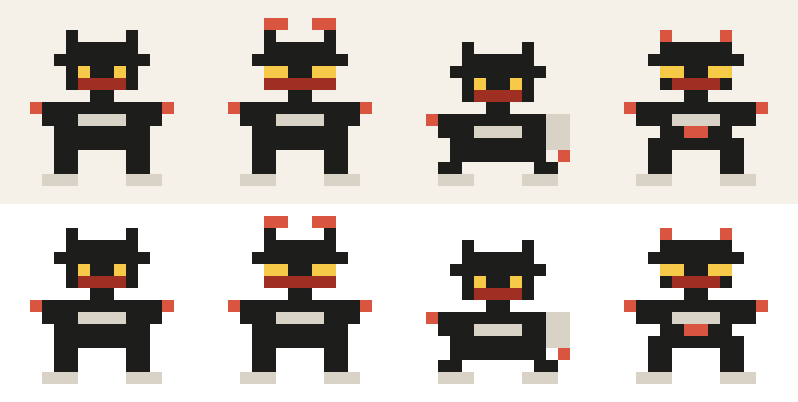
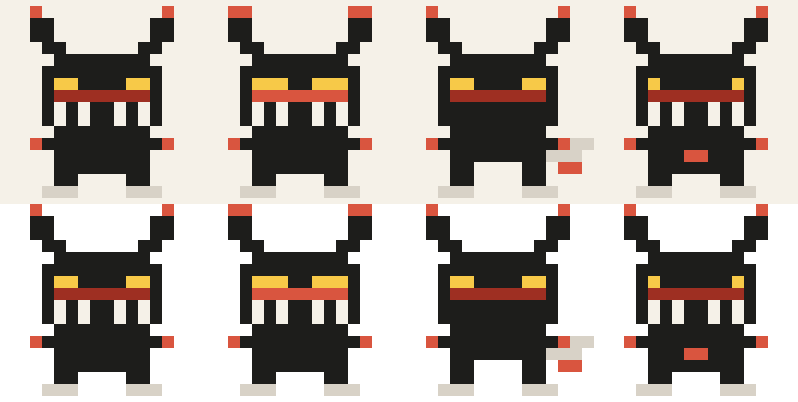
feat: bring the night into the app, and make the guardian look the part
The site had a legend and the app had a friendly little figure. Both ends
are the same character, so now both ends are the same story.

The four sprites are redrawn on the same 16x16 grid: horns that sweep
past the head, two rows of fangs in a crimson mouth, narrower eyes, and
a crimson rim that lets the whole silhouette read against ink. The
generator refuses to write a row that is not sixteen cells, because a
short row is a sprite with a bite taken out of it and it fails silently.

The popup and the Home card are now the app's one dark surface: an ink
plate with a deep crimson rim and a hard crimson shadow - the same plate
the site hangs the poster on. `framed` grew a rim colour for it, which
is additive: every existing caller keeps ink exactly as before. Restored
stays on the calm soft-forest card, because a watch that is whole again
has nothing left to be loud about.

No copy changed and no claim grew: the words still say what is true, and
only the picture is allowed to be frightening.

Full suite green. The sprite rules now also enforce that the teeth are
attached, that the rim reads on ink (1.3:1) and that the eyes read on ink
(4.5:1) - the eyes are the one thing allowed to be brighter than the rim.

diff --git a/web/lib/sprites.ts b/web/lib/sprites.ts
@@ -286,41 +286,43 @@ export const sprites = {
   guardian_idle: {
     size: 16,
     layers: [
-      { colour: '#1D1D1B', cells: [[5, 2, 1, 1], [10, 2, 1, 1], [5, 3, 6, 1], [4, 4, 8, 1], [5, 5, 1, 1], [7, 5, 2, 1], [10, 5, 1, 1], [5, 6, 1, 1], [10, 6, 1, 1], [7, 7, 2, 1], [3, 8, 10, 1], [3, 9, 3, 1], [10, 9, 3, 1], [4, 10, 8, 1], [4, 11, 8, 1], [4, 12, 2, 1], [10, 12, 2, 1], [4, 13, 2, 1], [10, 13, 2, 1]] },
-      { colour: '#F7C948', cells: [[6, 5, 1, 1], [9, 5, 1, 1]] },
-      { colour: '#9E2F22', cells: [[6, 6, 4, 1]] },
-      { colour: '#D9553F', cells: [[2, 8, 1, 1], [13, 8, 1, 1]] },
-      { colour: '#D8D2C7', cells: [[6, 9, 4, 1], [3, 14, 3, 1], [10, 14, 3, 1]] }
+      { colour: '#D9553F', cells: [[2, 0, 1, 1], [13, 0, 1, 1], [2, 11, 1, 1], [13, 11, 1, 1]] },
+      { colour: '#1D1D1B', cells: [[2, 1, 2, 1], [12, 1, 2, 1], [2, 2, 2, 1], [12, 2, 2, 1], [3, 3, 2, 1], [11, 3, 2, 1], [4, 4, 8, 1], [3, 5, 10, 1], [3, 6, 1, 1], [6, 6, 4, 1], [12, 6, 1, 1], [3, 7, 1, 1], [12, 7, 1, 1], [3, 8, 1, 1], [5, 8, 1, 1], [7, 8, 2, 1], [10, 8, 1, 1], [12, 8, 1, 1], [3, 9, 1, 1], [5, 9, 1, 1], [7, 9, 2, 1], [10, 9, 1, 1], [12, 9, 1, 1], [4, 10, 8, 1], [3, 11, 10, 1], [4, 12, 8, 1], [4, 13, 8, 1], [4, 14, 2, 1], [10, 14, 2, 1]] },
+      { colour: '#F7C948', cells: [[4, 6, 2, 1], [10, 6, 2, 1]] },
+      { colour: '#9E2F22', cells: [[4, 7, 8, 1]] },
+      { colour: '#F5F1E8', cells: [[4, 8, 1, 1], [6, 8, 1, 1], [9, 8, 1, 1], [11, 8, 1, 1], [4, 9, 1, 1], [6, 9, 1, 1], [9, 9, 1, 1], [11, 9, 1, 1]] },
+      { colour: '#D8D2C7', cells: [[3, 15, 3, 1], [10, 15, 3, 1]] }
     ]
   },
   guardian_alert: {
     size: 16,
     layers: [
-      { colour: '#D9553F', cells: [[5, 1, 2, 1], [9, 1, 2, 1], [2, 8, 1, 1], [13, 8, 1, 1]] },
-      { colour: '#1D1D1B', cells: [[5, 2, 1, 1], [10, 2, 1, 1], [5, 3, 6, 1], [4, 4, 8, 1], [7, 5, 2, 1], [7, 7, 2, 1], [3, 8, 10, 1], [3, 9, 3, 1], [10, 9, 3, 1], [4, 10, 8, 1], [4, 11, 8, 1], [4, 12, 2, 1], [10, 12, 2, 1], [4, 13, 2, 1], [10, 13, 2, 1]] },
-      { colour: '#F7C948', cells: [[5, 5, 2, 1], [9, 5, 2, 1]] },
-      { colour: '#9E2F22', cells: [[5, 6, 6, 1]] },
-      { colour: '#D8D2C7', cells: [[6, 9, 4, 1], [3, 14, 3, 1], [10, 14, 3, 1]] }
+      { colour: '#D9553F', cells: [[2, 0, 2, 1], [12, 0, 2, 1], [4, 7, 8, 1], [2, 11, 1, 1], [13, 11, 1, 1]] },
+      { colour: '#1D1D1B', cells: [[2, 1, 2, 1], [12, 1, 2, 1], [2, 2, 2, 1], [12, 2, 2, 1], [3, 3, 2, 1], [11, 3, 2, 1], [4, 4, 8, 1], [3, 5, 10, 1], [3, 6, 1, 1], [7, 6, 2, 1], [12, 6, 1, 1], [3, 7, 1, 1], [12, 7, 1, 1], [3, 8, 1, 1], [5, 8, 1, 1], [7, 8, 2, 1], [10, 8, 1, 1], [12, 8, 1, 1], [3, 9, 1, 1], [5, 9, 1, 1], [7, 9, 2, 1], [10, 9, 1, 1], [12, 9, 1, 1], [4, 10, 8, 1], [3, 11, 10, 1], [4, 12, 8, 1], [4, 13, 8, 1], [4, 14, 2, 1], [10, 14, 2, 1]] },
+      { colour: '#F7C948', cells: [[4, 6, 3, 1], [9, 6, 3, 1]] },
+      { colour: '#F5F1E8', cells: [[4, 8, 1, 1], [6, 8, 1, 1], [9, 8, 1, 1], [11, 8, 1, 1], [4, 9, 1, 1], [6, 9, 1, 1], [9, 9, 1, 1], [11, 9, 1, 1]] },
+      { colour: '#D8D2C7', cells: [[3, 15, 3, 1], [10, 15, 3, 1]] }
     ]
   },
   guardian_recovery: {
     size: 16,
     layers: [
-      { colour: '#1D1D1B', cells: [[5, 3, 1, 1], [10, 3, 1, 1], [5, 4, 6, 1], [4, 5, 8, 1], [5, 6, 1, 1], [7, 6, 2, 1], [10, 6, 1, 1], [5, 7, 1, 1], [10, 7, 1, 1], [7, 8, 2, 1], [3, 9, 9, 1], [3, 10, 3, 1], [10, 10, 2, 1], [4, 11, 8, 1], [4, 12, 8, 1], [3, 13, 2, 1], [11, 13, 2, 1]] },
-      { colour: '#F7C948', cells: [[6, 6, 1, 1], [9, 6, 1, 1]] },
-      { colour: '#9E2F22', cells: [[6, 7, 4, 1]] },
-      { colour: '#D9553F', cells: [[2, 9, 1, 1], [13, 12, 1, 1]] },
-      { colour: '#D8D2C7', cells: [[12, 9, 2, 1], [6, 10, 4, 1], [12, 10, 2, 1], [12, 11, 2, 1], [3, 14, 3, 1], [10, 14, 3, 1]] }
+      { colour: '#D9553F', cells: [[2, 0, 1, 1], [13, 0, 1, 1], [2, 11, 1, 1], [13, 11, 1, 1], [13, 13, 2, 1]] },
+      { colour: '#1D1D1B', cells: [[2, 1, 2, 1], [12, 1, 2, 1], [2, 2, 2, 1], [12, 2, 2, 1], [3, 3, 2, 1], [11, 3, 2, 1], [4, 4, 8, 1], [3, 5, 10, 1], [3, 6, 1, 1], [6, 6, 4, 1], [12, 6, 1, 1], [3, 7, 1, 1], [12, 7, 1, 1], [3, 8, 10, 1], [3, 9, 10, 1], [4, 10, 8, 1], [3, 11, 10, 1], [4, 12, 8, 1], [4, 13, 2, 1], [10, 13, 2, 1], [4, 14, 2, 1], [10, 14, 2, 1]] },
+      { colour: '#F7C948', cells: [[4, 6, 2, 1], [10, 6, 2, 1]] },
+      { colour: '#9E2F22', cells: [[4, 7, 8, 1]] },
+      { colour: '#D8D2C7', cells: [[14, 11, 2, 1], [12, 12, 3, 1], [3, 15, 3, 1], [10, 15, 3, 1]] }
     ]
   },
   guardian_restored: {
     size: 16,
     layers: [
-      { colour: '#D9553F', cells: [[5, 2, 1, 1], [10, 2, 1, 1], [2, 8, 1, 1], [13, 8, 1, 1], [7, 10, 2, 1]] },
-      { colour: '#1D1D1B', cells: [[5, 3, 6, 1], [4, 4, 8, 1], [7, 5, 2, 1], [5, 6, 1, 1], [10, 6, 1, 1], [7, 7, 2, 1], [3, 8, 10, 1], [3, 9, 3, 1], [10, 9, 3, 1], [5, 10, 2, 1], [9, 10, 2, 1], [4, 11, 8, 1], [4, 12, 2, 1], [10, 12, 2, 1], [4, 13, 2, 1], [10, 13, 2, 1]] },
-      { colour: '#F7C948', cells: [[5, 5, 2, 1], [9, 5, 2, 1]] },
-      { colour: '#9E2F22', cells: [[6, 6, 4, 1]] },
-      { colour: '#D8D2C7', cells: [[6, 9, 4, 1], [3, 14, 3, 1], [10, 14, 3, 1]] }
+      { colour: '#D9553F', cells: [[2, 0, 1, 1], [13, 0, 1, 1], [2, 11, 1, 1], [13, 11, 1, 1], [7, 12, 2, 1]] },
+      { colour: '#1D1D1B', cells: [[2, 1, 2, 1], [12, 1, 2, 1], [2, 2, 2, 1], [12, 2, 2, 1], [3, 3, 2, 1], [11, 3, 2, 1], [4, 4, 8, 1], [3, 5, 10, 1], [3, 6, 1, 1], [5, 6, 6, 1], [12, 6, 1, 1], [3, 7, 1, 1], [12, 7, 1, 1], [3, 8, 1, 1], [5, 8, 1, 1], [7, 8, 2, 1], [10, 8, 1, 1], [12, 8, 1, 1], [3, 9, 1, 1], [5, 9, 1, 1], [7, 9, 2, 1], [10, 9, 1, 1], [12, 9, 1, 1], [4, 10, 8, 1], [3, 11, 10, 1], [4, 12, 3, 1], [9, 12, 3, 1], [4, 13, 8, 1], [4, 14, 2, 1], [10, 14, 2, 1]] },
+      { colour: '#F7C948', cells: [[4, 6, 1, 1], [11, 6, 1, 1]] },
+      { colour: '#9E2F22', cells: [[4, 7, 8, 1]] },
+      { colour: '#F5F1E8', cells: [[4, 8, 1, 1], [6, 8, 1, 1], [9, 8, 1, 1], [11, 8, 1, 1], [4, 9, 1, 1], [6, 9, 1, 1], [9, 9, 1, 1], [11, 9, 1, 1]] },
+      { colour: '#D8D2C7', cells: [[3, 15, 3, 1], [10, 15, 3, 1]] }
     ]
   }
 } as const

diff --git a/app/src/main/java/com/projectego/app/MainActivity.kt b/app/src/main/java/com/projectego/app/MainActivity.kt
@@ -10,6 +10,7 @@ import android.os.Build
 import android.os.Bundle
 import android.net.Uri
 import android.provider.Settings
+import android.widget.TextView
 import android.view.Gravity
 import android.view.View
 import android.view.ViewGroup
@@ -680,14 +681,25 @@ class MainActivity : AppCompatActivity() {
      */
     private fun renderGuardianCard(state: GuardianState) {
         val whole = state == GuardianState.RESTORED
-        // A tinted card, and the tint is the documented meaning of this pale: a
-        // closed door is a pale surface with an ink edge, never a red alarm.
-        val card = ui.tintedBlock(
-            if (whole) ui.palette.softForest else ui.palette.shortPale,
-            weight = if (homeMajor == HomeMajor.GUARD) SurfaceWeight.MAJOR else SurfaceWeight.MINOR
-        )
+        val weight = if (homeMajor == HomeMajor.GUARD) SurfaceWeight.MAJOR else SurfaceWeight.MINOR
 
-        card.addView(ui.sectionHeader(getString(R.string.guardian_name)))
+        // While the watch is broken this is the one card in ALIVE that is not
+        // paper: an ink plate with a crimson rim, the same object the site hangs
+        // its poster on. Restored keeps the app's calm surface, because a watch
+        // that is whole again has nothing left to be loud about.
+        val card = if (whole) {
+            ui.tintedBlock(ui.palette.softForest, weight)
+        } else {
+            Guardian.plate(ui, weight)
+        }
+
+        // On the dark plate every ink token is invisible, so each line is asked
+        // for its paper twin - except the eyebrow, which wears the crimson pale
+        // the role keeps for exactly this surface.
+        fun read(text: TextView): TextView = if (whole) text else Guardian.inPaper(text, ui)
+        fun eyebrow(text: TextView): TextView = if (whole) text else Guardian.inCrimson(text, ui)
+
+        card.addView(eyebrow(ui.sectionHeader(getString(R.string.guardian_name))))
         card.addView(ui.vgap(ui.dimens.lineGap))
 
         // The figure used to sit above three grey paragraphs of the same size,
@@ -706,26 +718,26 @@ class MainActivity : AppCompatActivity() {
         line.addView(
             ui.weighted(
                 ui.column().apply {
-                    addView(ui.headline(getString(Guardian.headlineFor(state))))
+                    addView(read(ui.headline(getString(Guardian.headlineFor(state)))))
                     addView(ui.vgap(ui.dimens.pairGap))
-                    addView(ui.body(getString(Guardian.bodyFor(state))))
+                    addView(read(ui.body(getString(Guardian.bodyFor(state)))))
                 }
             )
         )
         card.addView(line)
 
         card.addView(ui.vgap(ui.dimens.groupGap))
-        card.addView(ui.rowRule())
+        card.addView(if (whole) ui.rowRule() else Guardian.rule(this, ui))
         card.addView(ui.vgap(ui.dimens.lineGap))
 
         // The brief's second action, answered where the question is asked: while
         // the watch is off, the card says why it is on screen at all - and the
         // answer is the same fact the app has always told.
         if (!whole) {
-            card.addView(ui.meta(getString(R.string.guardian_why)))
+            card.addView(eyebrow(ui.meta(getString(R.string.guardian_why))))
             card.addView(ui.vgap(ui.dimens.pairGap))
         }
-        card.addView(ui.note(getString(Guardian.noteFor(state))))
+        card.addView(read(ui.note(getString(Guardian.noteFor(state)))))
 
         Guardian.actionFor(state)?.let { action ->
             card.addView(ui.vgap(ui.dimens.groupGap))
@@ -747,7 +759,7 @@ class MainActivity : AppCompatActivity() {
         // can be shown is not worth asking for on its own screen.
         if (!whole && !PermissionChecks.canDrawOverlays(this)) {
             card.addView(ui.vgap(ui.dimens.groupGap))
-            card.addView(ui.note(getString(R.string.permissions_overlay_why)))
+            card.addView(read(ui.note(getString(R.string.permissions_overlay_why))))
             card.addView(ui.vgap(ui.dimens.lineGap))
             card.addView(
                 ui.quiet(getString(R.string.permissions_overlay_action)).apply {

diff --git a/app/src/main/java/com/projectego/app/ui/AliveComponents.kt b/app/src/main/java/com/projectego/app/ui/AliveComponents.kt
@@ -387,22 +387,59 @@ class AliveComponents(private val context: Context) {
         }
 
     /**
-     * A face with an ink edge and a hard ink shadow to its bottom-right - the one
-     * picture every raised object in this app wears, shared by cards, tiles and
-     * chips so a 10sp tag and a whole card are unmistakably the same kind of thing.
+     * A face with an edge and a hard shadow to its bottom-right - the one picture
+     * every raised object in this app wears, shared by cards, tiles and chips so a
+     * 10sp tag and a whole card are unmistakably the same kind of thing.
      *
      * Both layers are rounded, not just the face: a square shadow behind a round
      * card shows up as two black corners, which is the first thing the eye catches.
+     *
+     * [rim] is ink everywhere except on Guardian's plate, which is itself ink and
+     * needs a rim it can be seen against. Changing the colour changes the stroke
+     * too, because an edge drawn in a colour the shadow is not reads as a mistake.
      */
-    private fun framed(@ColorInt face: Int, edge: Int, shadow: Int, radius: Float): Drawable {
-        val ink = GradientDrawable().apply {
-            setColor(palette.ink)
+    private fun framed(
+        @ColorInt face: Int,
+        edge: Int,
+        shadow: Int,
+        radius: Float,
+        @ColorInt rim: Int = palette.ink
+    ): Drawable {
+        val under = GradientDrawable().apply {
+            setColor(rim)
             cornerRadius = radius
         }
-        // The face covers the ink layer everywhere but bottom-right, which is
+        val panel = GradientDrawable().apply {
+            setColor(face)
+            setStroke(edge, rim)
+            cornerRadius = radius
+        }
+        // The face covers the under-layer everywhere but bottom-right, which is
         // what leaves a hard shadow rather than a blurred one.
-        return LayerDrawable(arrayOf(ink, outline(edge, radius, face))).apply {
+        return LayerDrawable(arrayOf(under, panel)).apply {
             setLayerInset(1, 0, 0, shadow, shadow)
+        }
+    }
+
+    /**
+     * A raised plate whose rim and shadow are given with its face.
+     *
+     * The default pair is ink on ink, which disappears on the one surface the app
+     * has that is itself ink: the plate Guardian stands on while the watch is off.
+     * So this variant takes the rim as well - the same object, dressed to be seen
+     * in the dark, exactly the way the poster is framed.
+     */
+    fun rimmedBlock(
+        @ColorInt face: Int,
+        @ColorInt rim: Int,
+        weight: SurfaceWeight = SurfaceWeight.MAJOR
+    ): LinearLayout {
+        val edge = if (weight == SurfaceWeight.MAJOR) dimens.borderBold else dimens.borderButton
+        val shadow = if (weight == SurfaceWeight.MAJOR) dimens.shadow else dimens.shadowMinor
+        val inset = dimens.cardInset
+        return column().apply {
+            background = framed(face, edge, shadow, dimens.radiusCard.toFloat(), rim)
+            setPadding(edge + inset, edge + inset, edge + shadow + inset, edge + shadow + inset)
         }
     }
 

diff --git a/app/src/main/java/com/projectego/app/ui/GuardianAlertActivity.kt b/app/src/main/java/com/projectego/app/ui/GuardianAlertActivity.kt
@@ -43,8 +43,15 @@ class GuardianAlertActivity : AppCompatActivity() {
             return
         }
 
+        // The one dark surface in the app. Every other card ALIVE draws is paper,
+        // so the night the Guardian arrives is unmistakable before a word of it is
+        // read - and the window dims further than the critical note does, because
+        // this one is a scene rather than a note.
+        window.attributes = window.attributes.apply { dimAmount = 0.62f }
+
         val ui = AliveComponents(this)
-        val card = ui.notice()
+        val card = Guardian.plate(ui)
+        val paper = ui.palette.paper
 
         card.addView(
             ui.mark(
@@ -55,18 +62,18 @@ class GuardianAlertActivity : AppCompatActivity() {
         )
         card.addView(ui.vgap(ui.dimens.lineGap))
 
-        card.addView(ui.sectionHeader(getString(R.string.guardian_name)))
+        card.addView(Guardian.inCrimson(ui.sectionHeader(getString(R.string.guardian_name)), ui))
         card.addView(ui.vgap(ui.dimens.lineGap))
 
-        card.addView(ui.headline(getString(Guardian.headlineFor(state))))
+        card.addView(Guardian.inPaper(ui.headline(getString(Guardian.headlineFor(state))), ui))
         card.addView(ui.vgap(ui.dimens.lineGap))
-        card.addView(ui.body(getString(Guardian.bodyFor(state))))
+        card.addView(Guardian.inPaper(ui.body(getString(Guardian.bodyFor(state))), ui))
 
         card.addView(ui.vgap(ui.dimens.groupGap))
-        card.addView(ui.note(getString(Guardian.noteFor(state))))
+        card.addView(Guardian.inPaper(ui.note(getString(Guardian.noteFor(state))), ui))
 
-        // The one action worth taking, in the colour ALIVE keeps for the thing
-        // you are being asked to do - and a way out that costs nothing, because a
+        // The one action worth taking, in the amber ALIVE keeps for the thing you
+        // are being asked to do - and a way out that costs nothing, because a
         // reminder you cannot dismiss is a lock, and this is not one.
         card.addView(ui.vgap(ui.dimens.groupGap))
         card.addView(
@@ -89,6 +96,9 @@ class GuardianAlertActivity : AppCompatActivity() {
                     LinearLayout.LayoutParams.MATCH_PARENT,
                     LinearLayout.LayoutParams.WRAP_CONTENT
                 )
+                // Left as the app's own quiet button - a white chip with ink type.
+                // On a dark plate that is the clearest thing on the card, which is
+                // exactly right for the way out.
                 setOnClickListener { finish() }
             }
         )

diff --git a/app/src/main/java/com/projectego/app/ui/Guardian.kt b/app/src/main/java/com/projectego/app/ui/Guardian.kt
@@ -3,6 +3,9 @@ package com.projectego.app.ui
 import android.content.Context
 import android.graphics.Bitmap
 import android.graphics.Canvas
+import android.view.View
+import android.widget.LinearLayout
+import android.widget.TextView
 import androidx.annotation.DrawableRes
 import androidx.annotation.StringRes
 import androidx.appcompat.content.res.AppCompatResources
@@ -99,6 +102,42 @@ object Guardian {
         GuardianState.DEGRADED -> R.string.cd_guardian_alert
         GuardianState.RECOVERY_REQUIRED -> R.string.cd_guardian_recovery
         GuardianState.RESTORED -> R.string.cd_guardian_restored
+    }
+
+    /**
+     * The plate a broken watch stands on.
+     *
+     * Ink face, deep crimson rim and shadow - because the app's own ink-on-ink
+     * edge vanishes on the one surface that is itself ink. This is the single
+     * place in ALIVE where a raised card is not paper, and it is the same plate
+     * the site hangs the poster on, so the app and the legend are visibly one
+     * object.
+     */
+    fun plate(ui: AliveComponents, weight: SurfaceWeight = SurfaceWeight.MAJOR): LinearLayout =
+        ui.rimmedBlock(ui.palette.ink, ui.palette.shortDark, weight)
+
+    /**
+     * Paper type on that plate.
+     *
+     * Every ink token - heading, body, even the "muted" tone - is invisible on
+     * ink, and the app has no light secondary, so on this one surface every word
+     * is written in the same paper and separated by size instead of by weight of
+     * grey. Legibility first: nothing here is allowed to be decorative.
+     */
+    fun <T : TextView> inPaper(text: T, ui: AliveComponents): T =
+        text.apply { setTextColor(ui.palette.paper) }
+
+    /** The eyebrow: crimson's pale end, which is the one tint that holds on ink. */
+    fun <T : TextView> inCrimson(text: T, ui: AliveComponents): T =
+        text.apply { setTextColor(ui.palette.shortPale) }
+
+    /** A rule for a surface that is not paper: an ink rule would draw nothing here. */
+    fun rule(context: Context, ui: AliveComponents): View = View(context).apply {
+        layoutParams = LinearLayout.LayoutParams(
+            LinearLayout.LayoutParams.MATCH_PARENT,
+            ui.dimens.borderBold
+        )
+        setBackgroundColor(ui.palette.shortDark)
     }
 
     /**

diff --git a/app/src/test/java/com/projectego/app/ui/GuardianSpriteTest.kt b/app/src/test/java/com/projectego/app/ui/GuardianSpriteTest.kt
@@ -70,7 +70,8 @@ class GuardianSpriteTest {
             "crimson" to R.color.alive_red_short_dark,
             "crimson bright" to R.color.alive_red_short_mid,
             "amber eyes" to R.color.alive_amber_action,
-            "metal" to R.color.alive_warm_gray
+            "metal" to R.color.alive_warm_gray,
+            "paper teeth" to R.color.alive_paper
         )
 
         poses.forEach { (name, id) ->
@@ -115,6 +116,27 @@ class GuardianSpriteTest {
             val ratio = contrast(helmet, ground)
             assertTrue("charcoal on $name = $ratio", ratio >= 8.0)
         }
+    }
+
+    @Test
+    fun `the guardian reads on the dark plate it now stands on`() {
+        val ink = colour(R.color.alive_ink)
+        val rim = colour(R.color.alive_red_short_dark)
+        val eyes = colour(R.color.alive_amber_action)
+
+        // The popup and the Home card are ink now, so the figure has to be
+        // visible against ink - and it is the crimson rim that does that work,
+        // which is why it may not be a shade away from the body.
+        assertTrue(
+            "crimson rim on ink = ${contrast(rim, ink)}",
+            contrast(rim, ink) >= 1.3
+        )
+
+        // The eyes are the only thing allowed to be brighter than the rim.
+        assertTrue(
+            "amber eyes on ink = ${contrast(eyes, ink)}",
+            contrast(eyes, ink) >= 4.5
+        )
     }
 
     @Test
